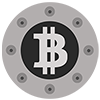
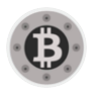
fixed low-res assets

diff --git a/src/main/java/wallettemplate/Controller.java b/src/main/java/wallettemplate/Controller.java
@@ -1893,8 +1893,9 @@ public class Controller  extends BaseUI{
 			   Main.instance.overlayUI("DisplayOneName.fxml", l);
     	}
     	else {
-    		informationalAlert("Cannot display your OneName account",
-					"Please press on your avatr picture on the overview tab to set your OneName account");
+    		ArrayList<Object> l = new ArrayList<Object>();
+    		l.add("");
+    		Main.instance.overlayUI("DisplayOneName.fxml", l);
     	}
     }
     
